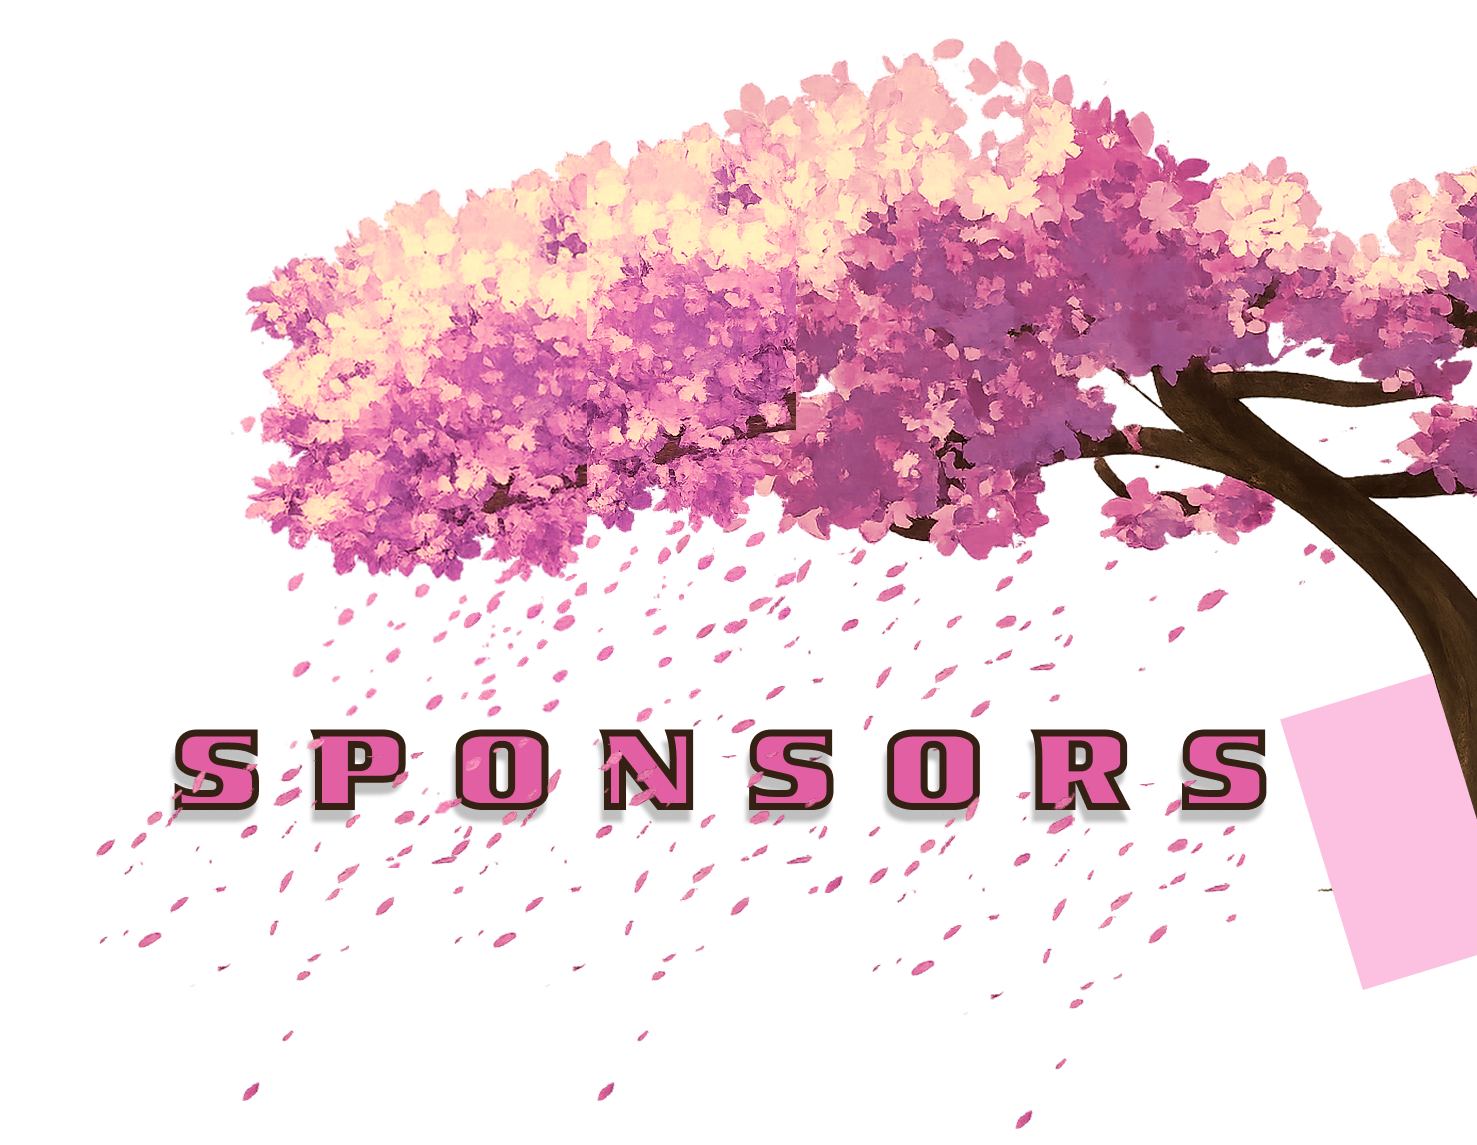
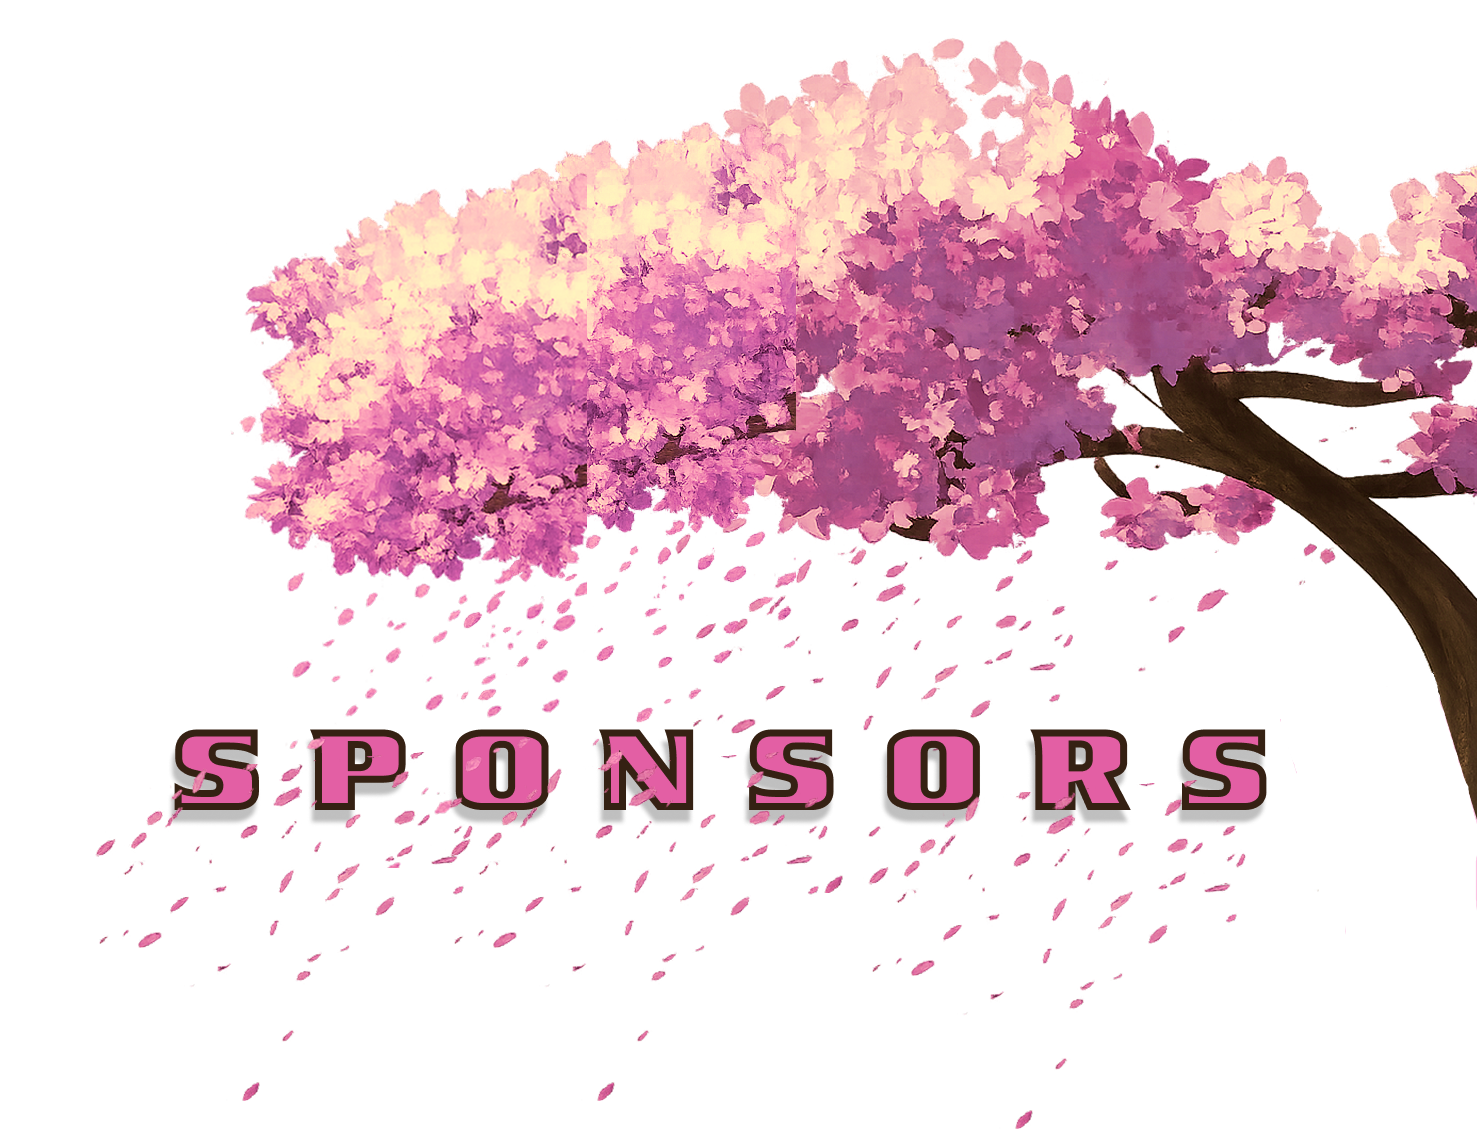
fixed_color_match

Changed region(s): [[0.872, 0.5808, 1.0, 0.8559]]

diff --git a/src/App.jsx b/src/App.jsx
@@ -56,7 +56,7 @@ function App() {
           <TimelineCards />
         </div>
       </div>
-      <div id="spacer" className="w-full h-[800vh] bg-[#fcc1e1] relative">
+      <div id="spacer" className="w-full h-[800vh] bg-[#fed6f0] relative">
         <img
           src="/bamboo.png"
           alt="Bamboo"
@@ -94,6 +94,22 @@ function App() {
             className="w-[25%] h-auto object-contain"
             alt="Coming Soon"
           />
+        </div>
+        <div className="absolute top-[78%] bottom-0 left-0 w-full z-20 flex justify-center items-start">
+          <div className="relative w-full h-full">
+            {/* Background Image - Full width, fills remaining space */}
+            <img
+              src="/oogwayback.png"
+              className="w-full h-full object-cover"
+              alt="Background"
+            />
+            {/* Small Image on top - centered */}
+            <img
+              src="/oogwayq.png"
+              className="absolute -top-[10%] left-1/2 -translate-x-1/2 w-[40%] max-w-xl"
+              alt="Oogway Quote"
+            />
+          </div>
         </div>
 
         {/* Event Cards Section */}

diff --git a/src/components/EventCards.jsx b/src/components/EventCards.jsx
@@ -52,7 +52,7 @@ function EventCards() {
                             className="w-full h-auto object-cover"
                         />
                         {/* Hover overlay */}
-                        <div className="absolute inset-0 bg-black/20 opacity-0 group-hover:opacity-100 transition-opacity duration-300" />
+
                     </button>
                 ))}
             </div>
